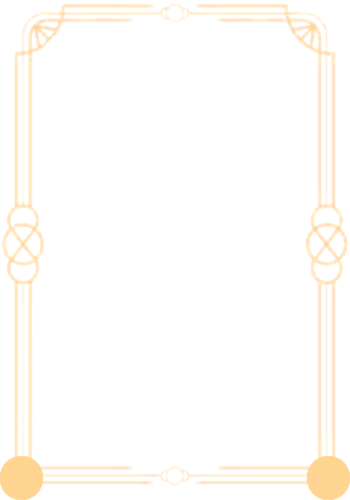
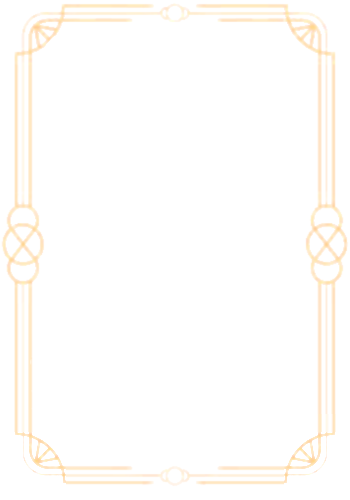
Add special frame for non-creature cards.

Changed region(s): [[0.0, 0.84, 0.2, 1.0], [0.8, 0.87, 1.0, 1.0]]

diff --git a/ConquerTheDungeon/Ui/CardImage.cs b/ConquerTheDungeon/Ui/CardImage.cs
@@ -20,7 +20,7 @@ public class CardImage: Image
     public CardImage(Card card, Anchor anchor, Vector2 size, bool canMove = true): base(anchor, size, getTextureRegion(card.Content.Texture))
     {
         Card = card;
-        _frame = Game1.Instance.Content.Load<Texture2D>("images/card_frame");
+        _frame = Game1.Instance.Content.Load<Texture2D>("images/" + (Card is CreatureCard ? "creature_card_frame" : "card_frame") );
         AddChild(new Image(Anchor.Center, new Vector2(1f, 1f), new TextureRegion(_frame)));
         if (canMove)
         {
